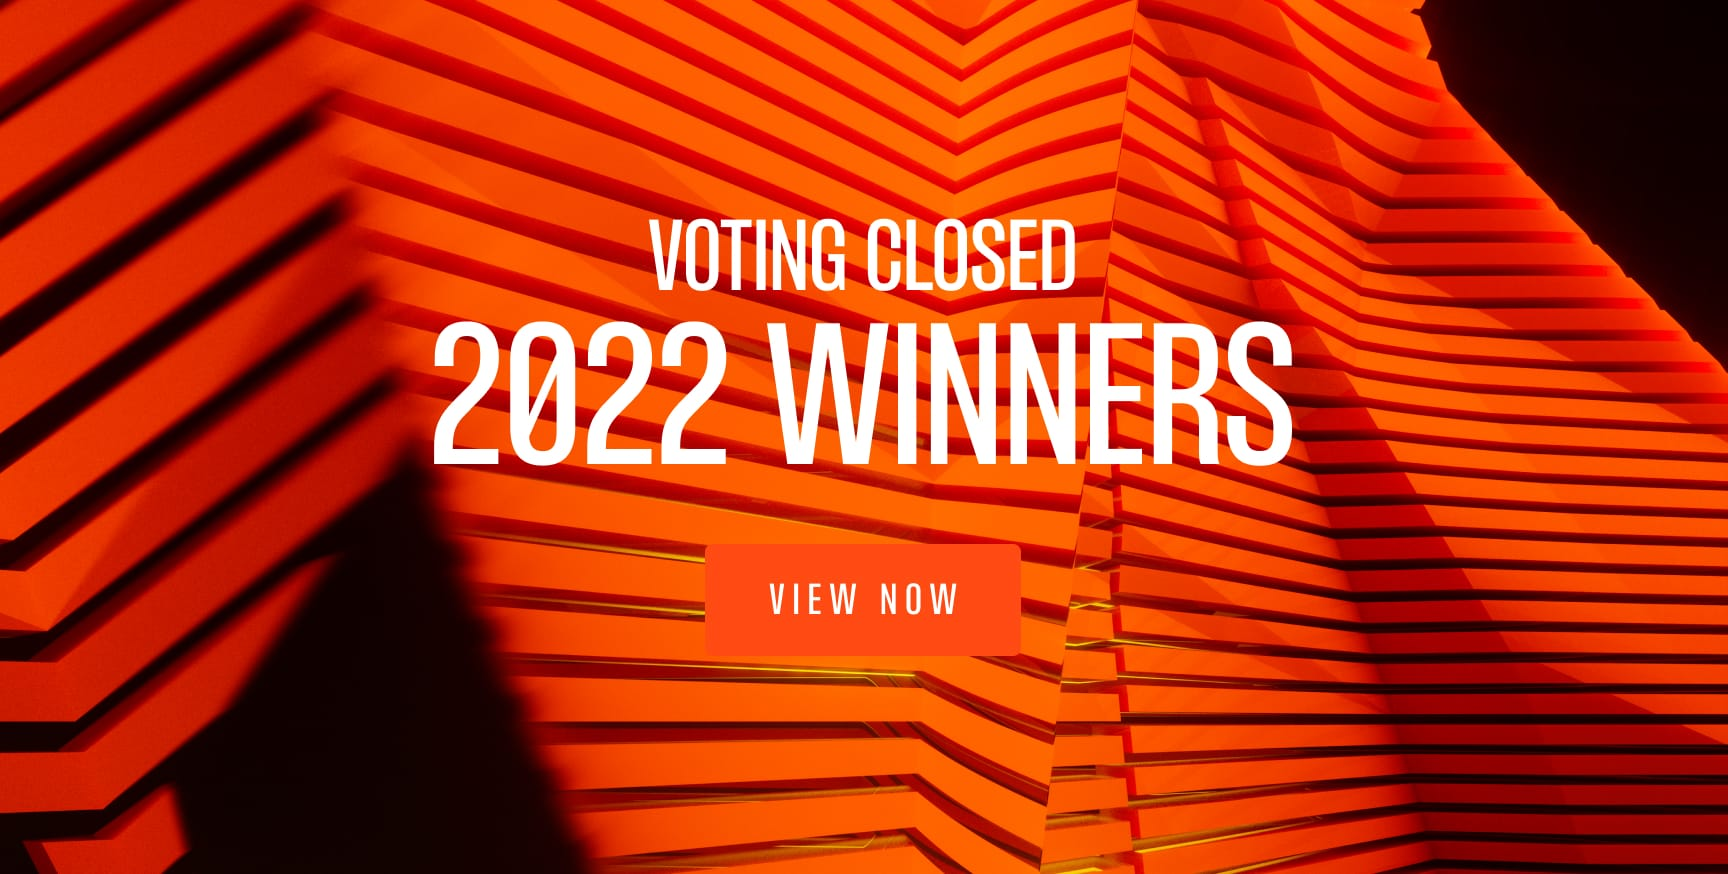
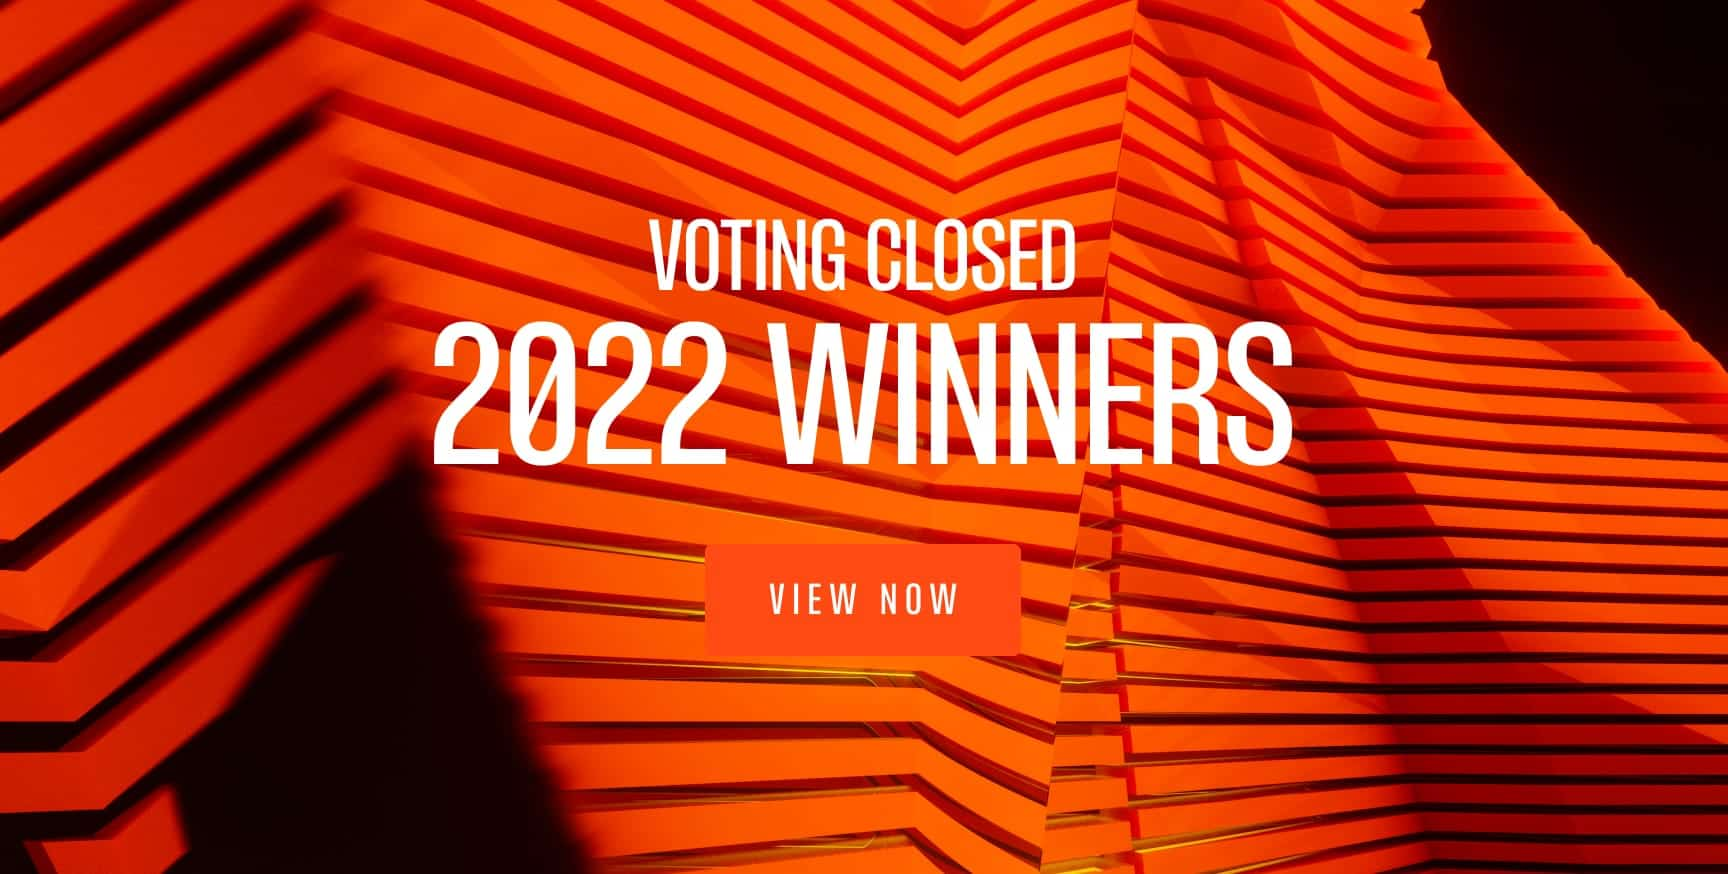
Optimise images

diff --git a/src/pages/Home/News/News.scss b/src/pages/Home/News/News.scss
@@ -1,6 +1,6 @@
 .news {
   min-height: 100vh;
-  background-image: url(../../../assets/home-news-img.png);
+  background-image: url(../../../assets/home-news-img.jpg);
   background-repeat: no-repeat;
   background-size: cover;
   background-color: rgb(8, 8, 8);
